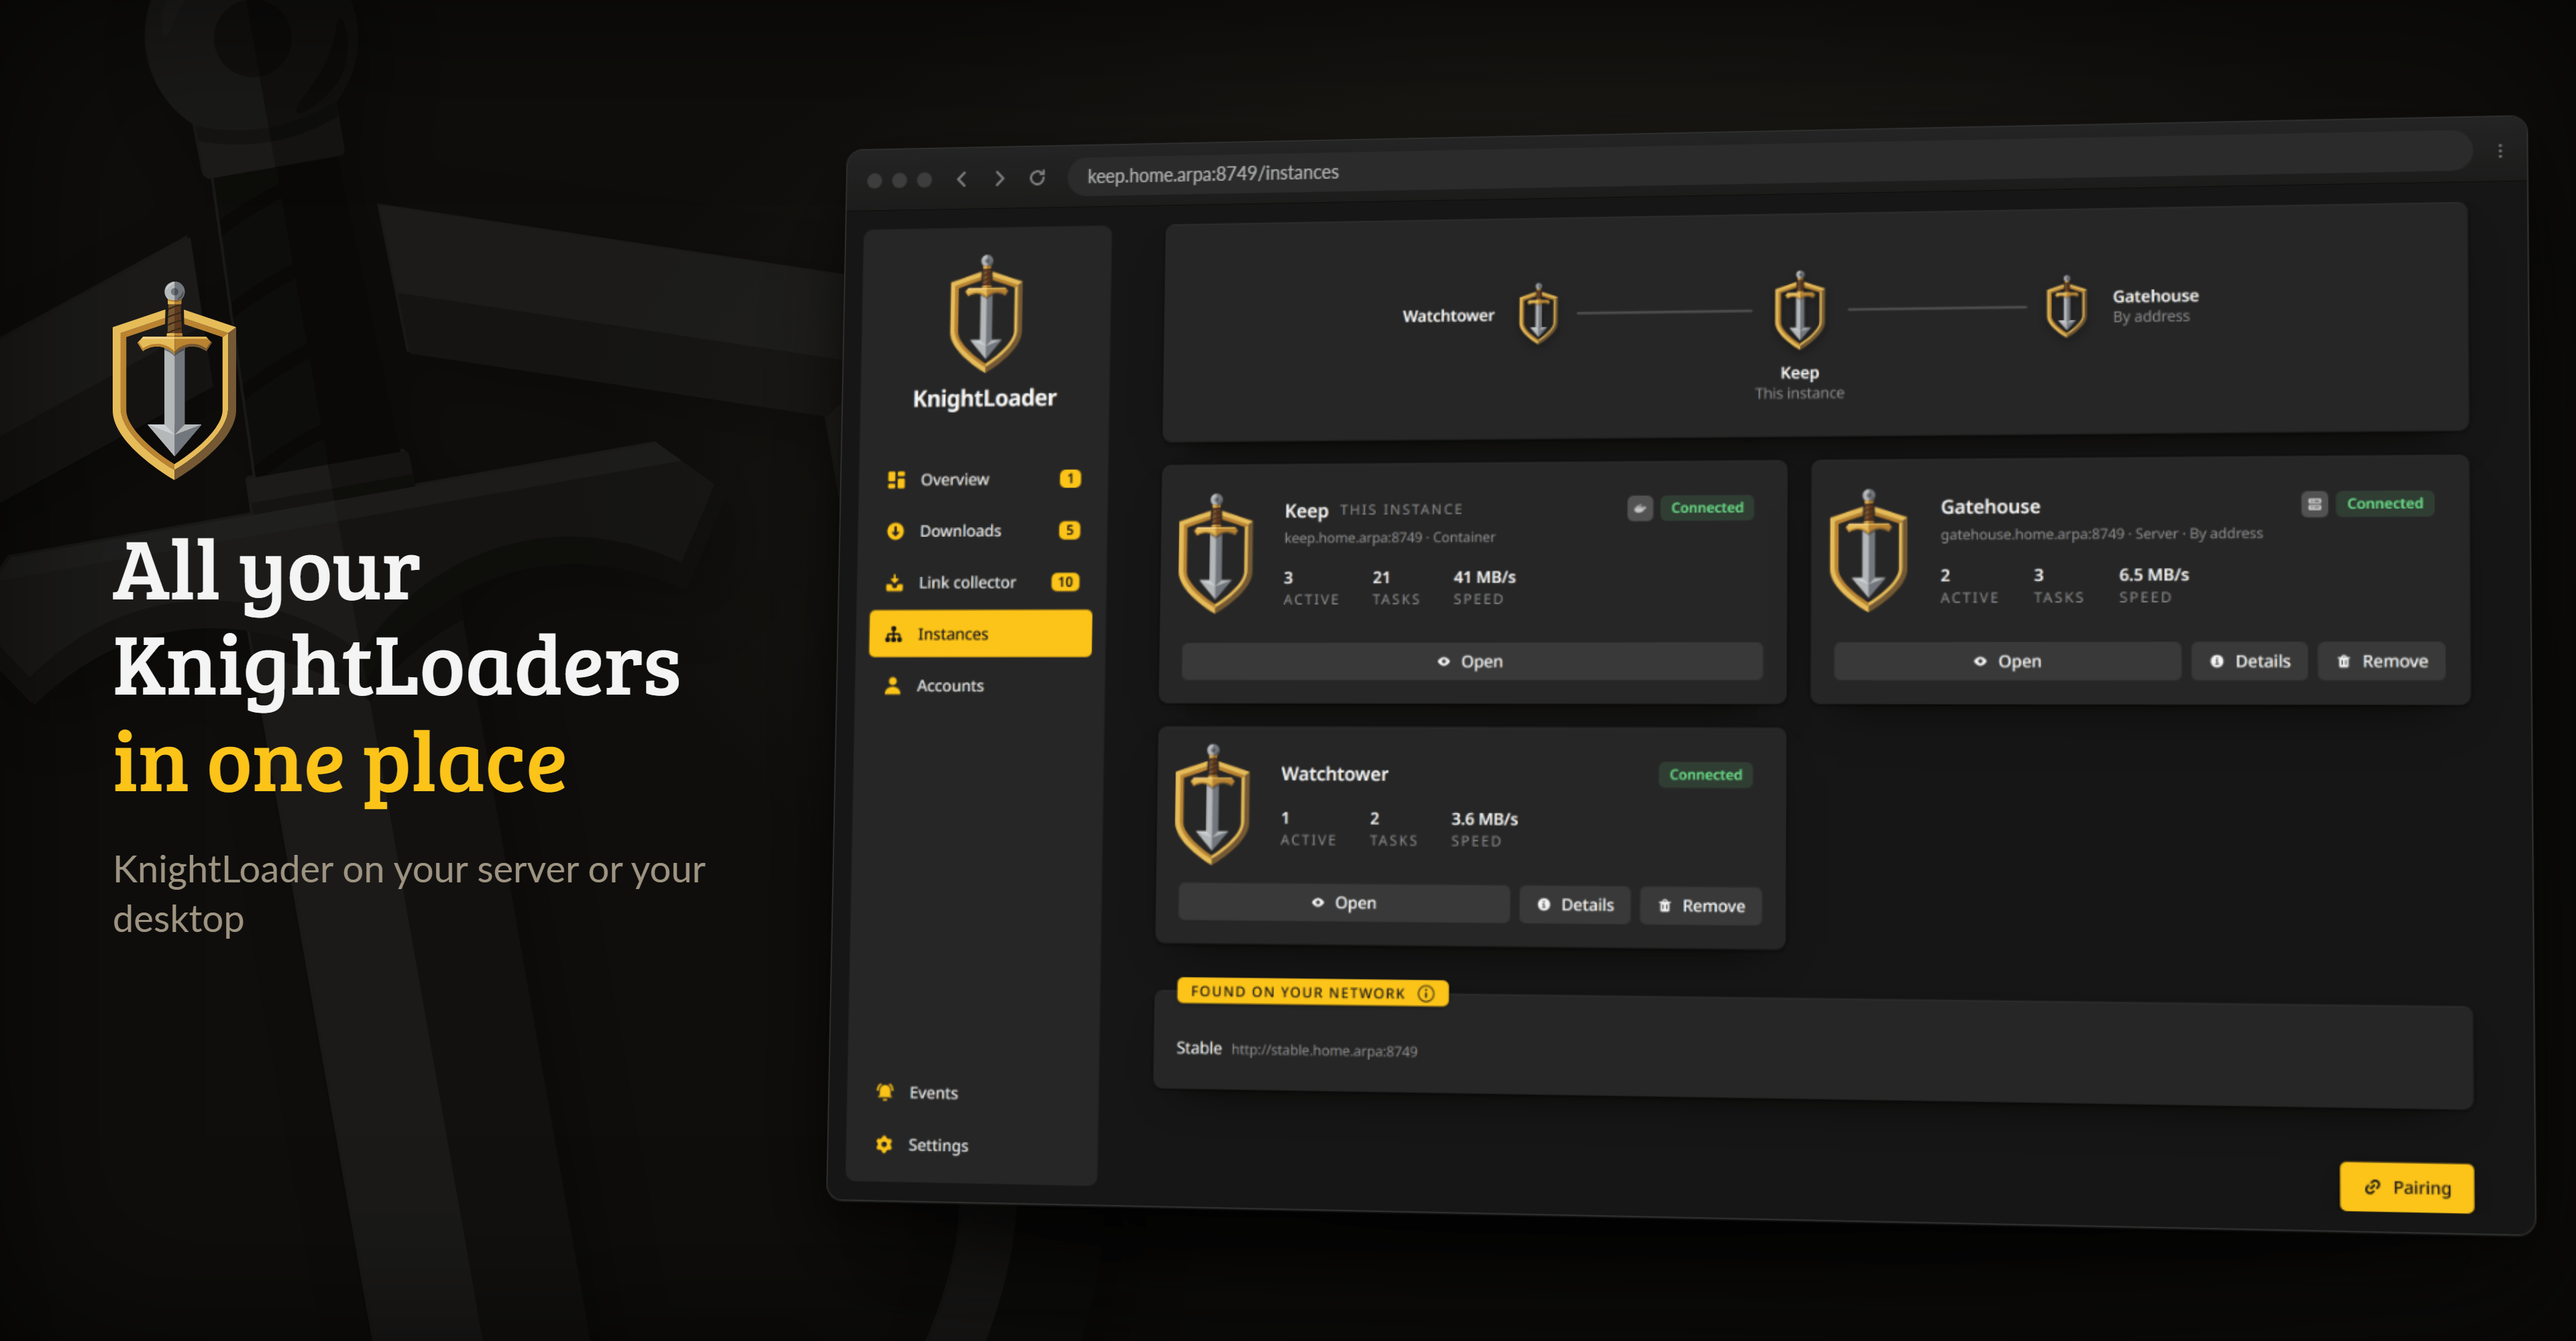
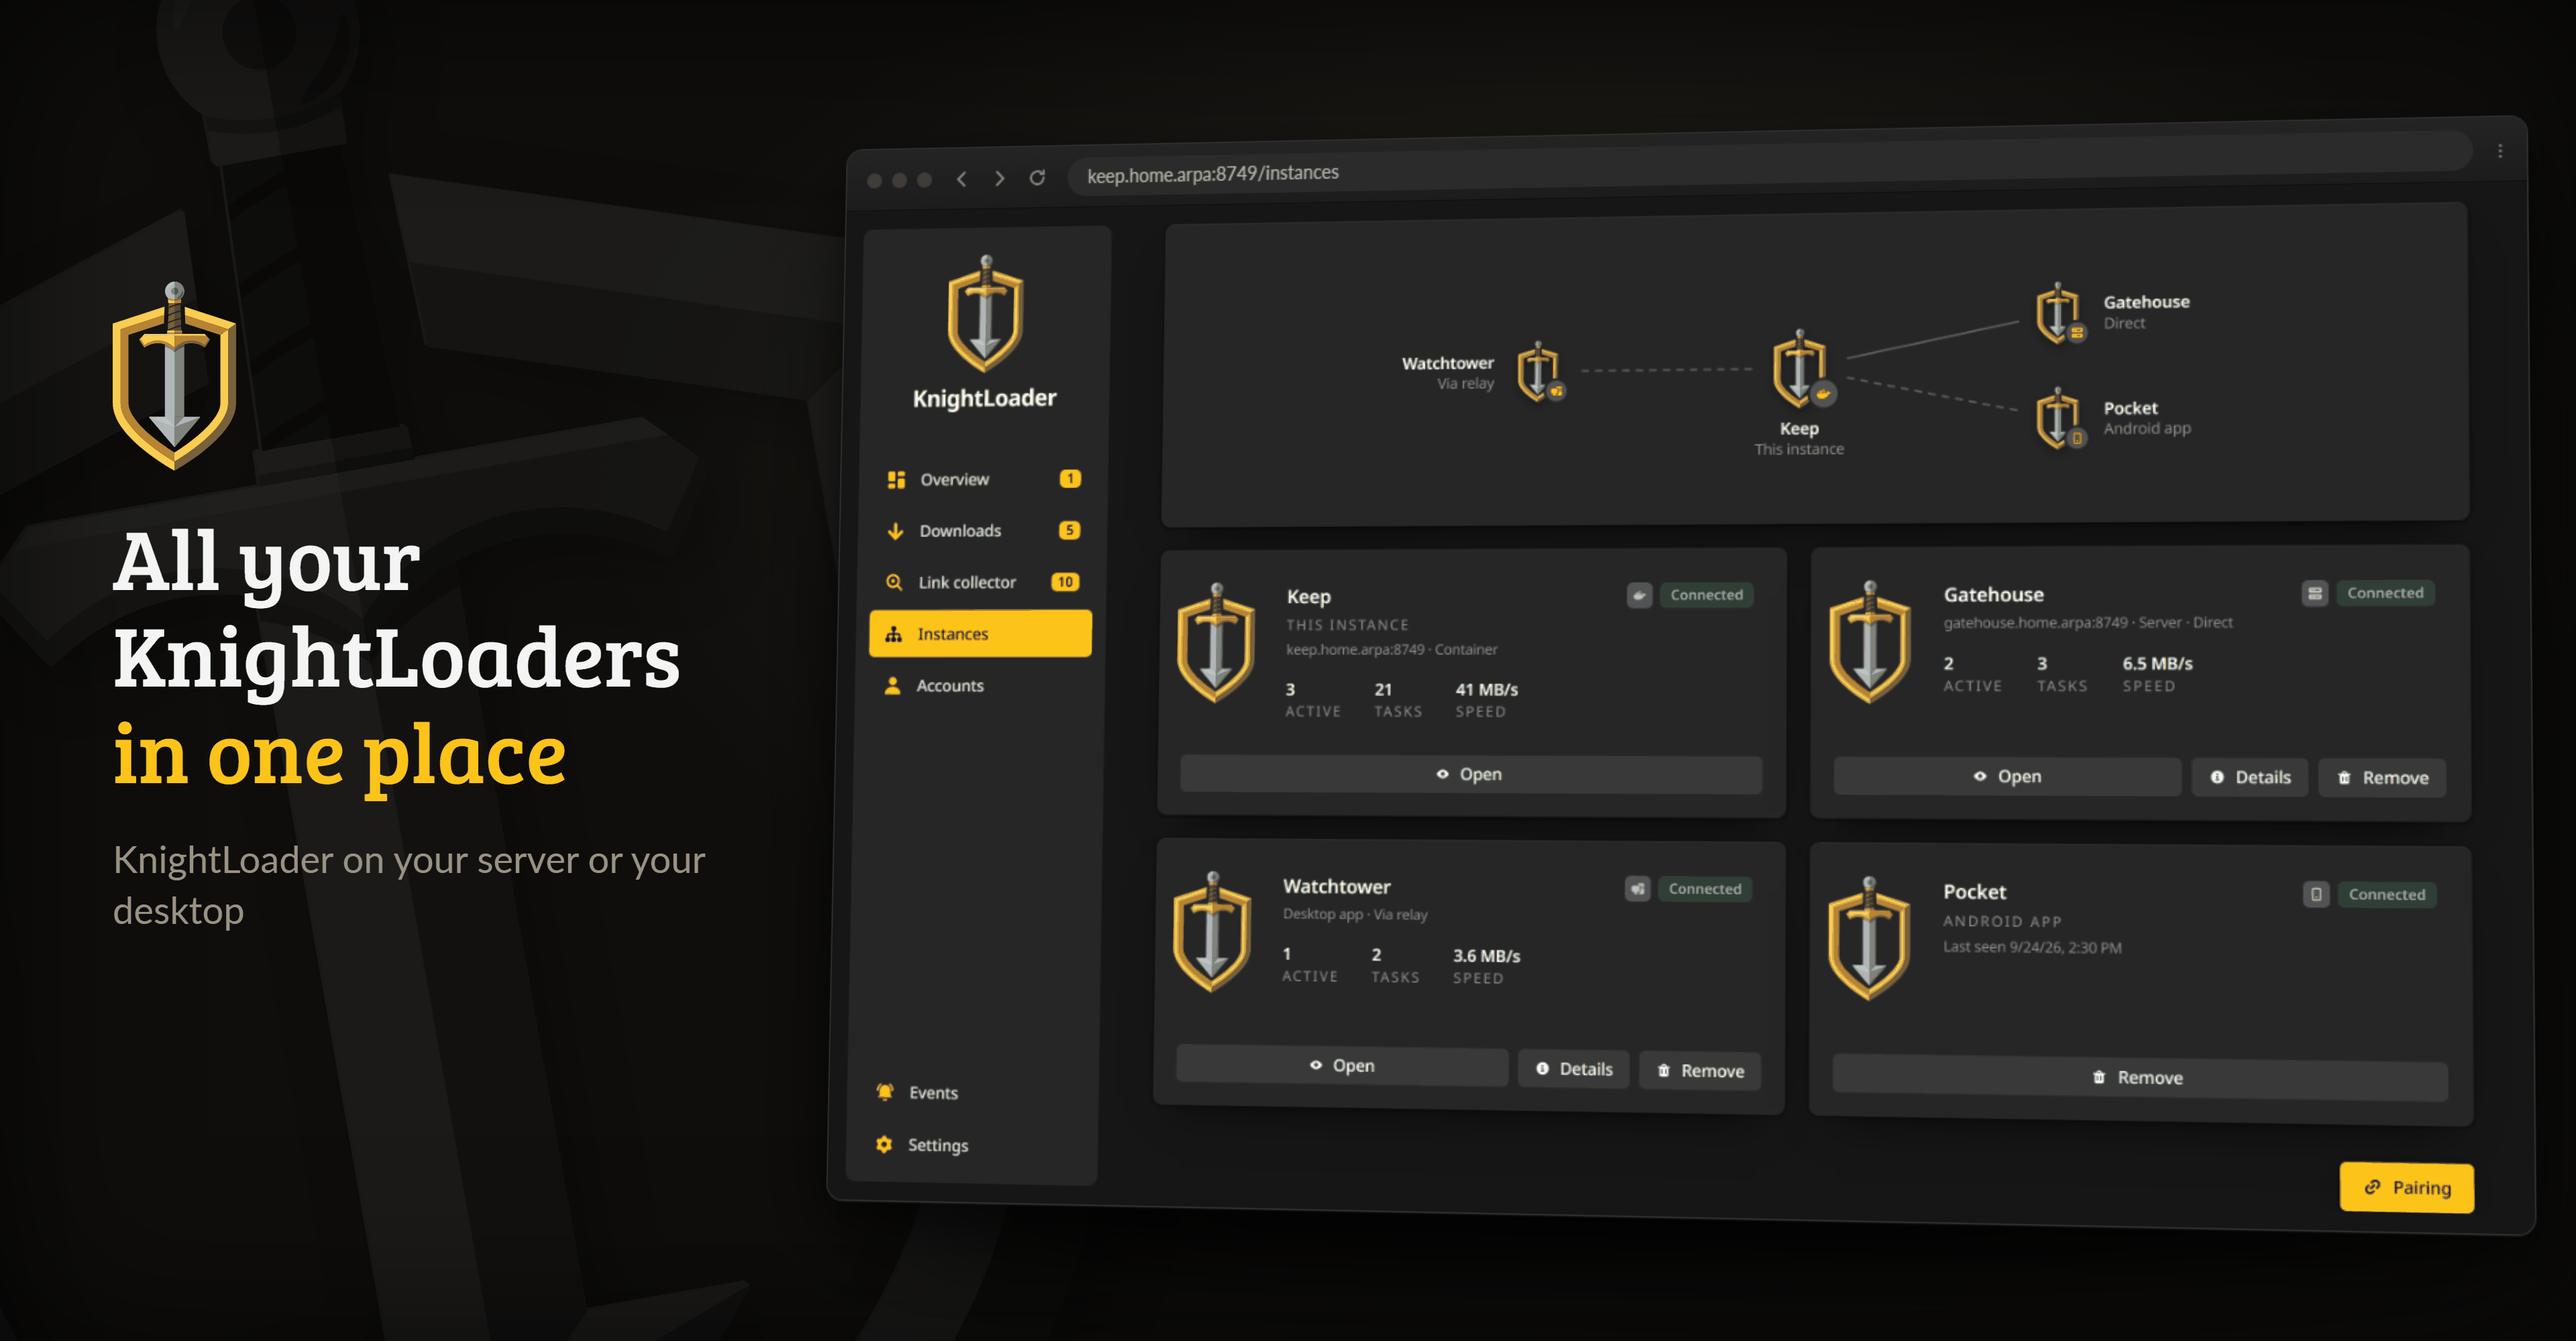
Draw the Instances picture as a group
The fixtures pair Gatehouse and Watchtower with the phrase, add a phone, and drop the instance found on the network.

diff --git a/README.md b/README.md
@@ -239,7 +239,7 @@ The downloads, hosts and accounts in these pictures are made up.
 <br>
 
 <p align="center">
-  <img src=".github/assets/screenshots/knightloader-9-instances.png" alt="Instances: this one, one at home and one through the relay" width="100%">
+  <img src=".github/assets/screenshots/knightloader-9-instances.png" alt="Instances: this one, one at home, one through the relay and a phone" width="100%">
   <br><em>Instances: your other KnightLoaders, at home or through the relay.</em>
 </p>
 
